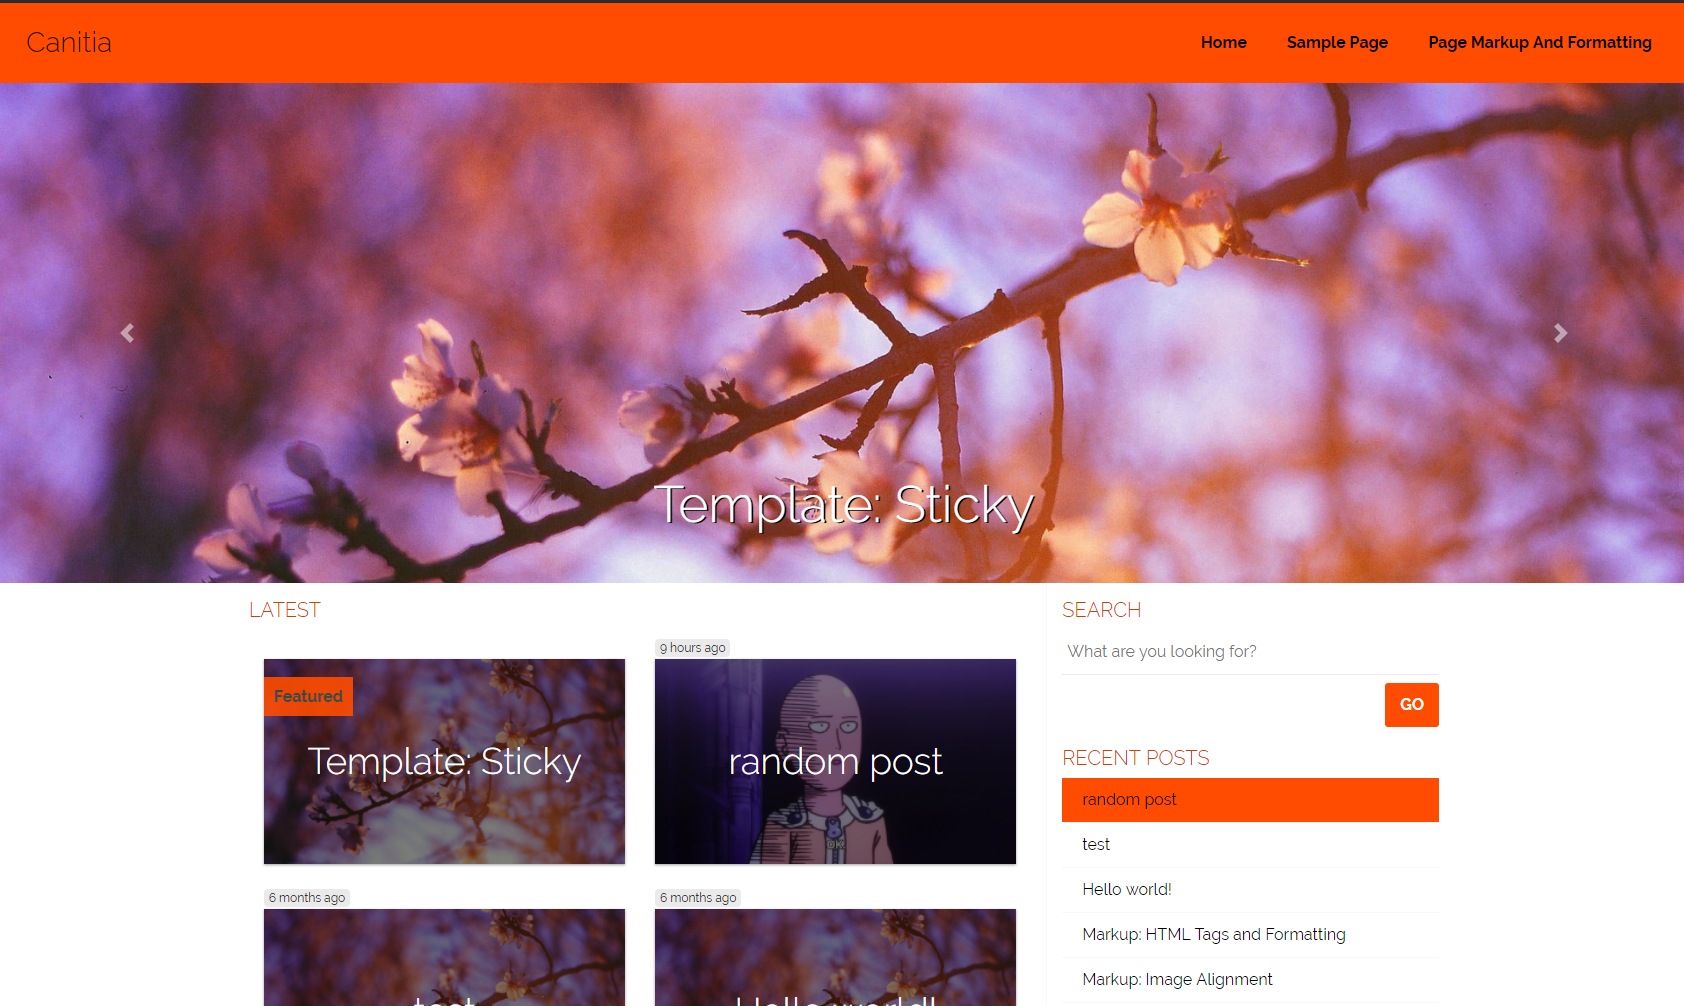
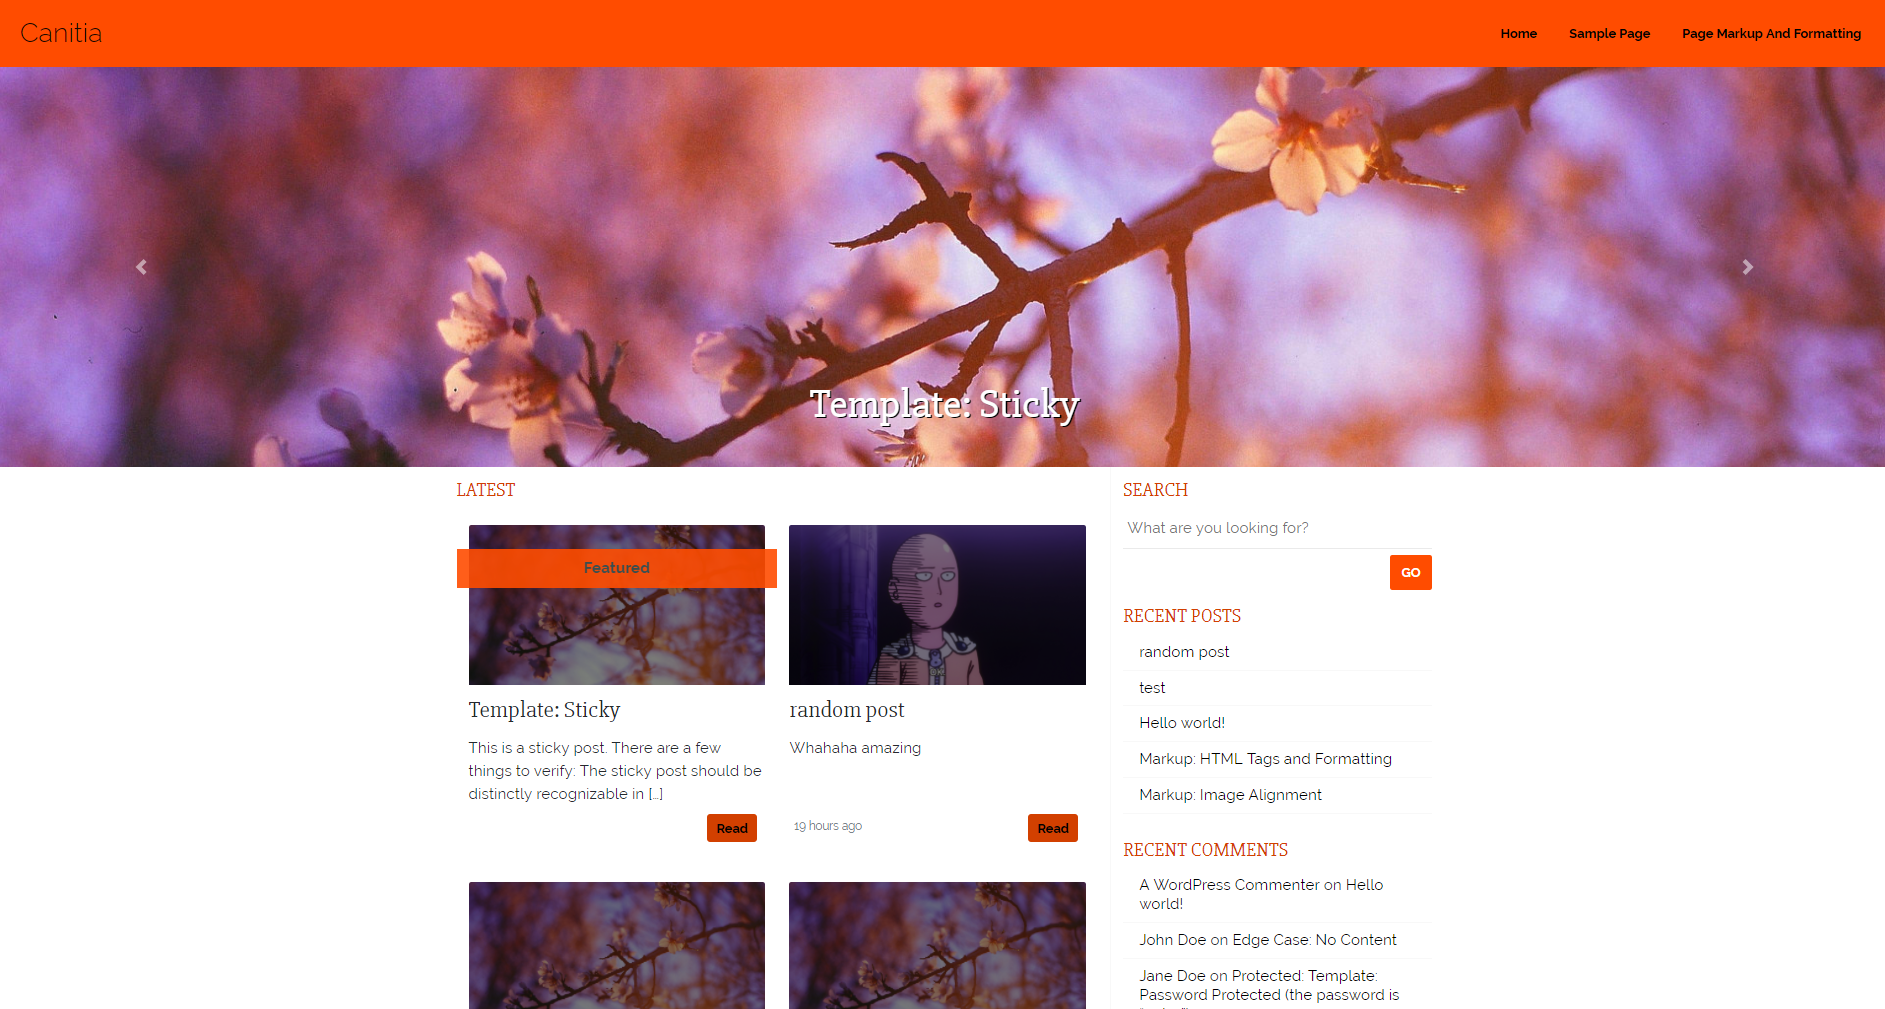
fix margin stuff

diff --git a/style.css b/style.css
@@ -19,6 +19,12 @@ Use it to make something cool, have fun, and share what you've learned with othe
 	margin-right: 0 !important;
 }
 
+.page-row {
+	max-width: 1200px;
+	margin-left: auto !important;
+	margin-right: auto !important;
+}
+
 .col {
 	flex-basis: unset !important;
 }
@@ -1190,10 +1196,6 @@ footer p {
 @media (min-width: 1200px) { 
 	.caption-image {
 		font-size: 2.3em !important;
-	}
-
-	.container-fluid {
-		max-width:1250px;
 	}
 
 	.collection-item {

diff --git a/single.php b/single.php
@@ -9,7 +9,7 @@
     }
 ?>
 
-    <div class="row h-100">
+    <div class="row h-100 page-row">
         <?php if ( get_theme_mod( 'sidebar_position', 'right' ) == 'left' ) : ?>
         <!-- second column (widget bar) -->
         <?php get_sidebar( 'primary' ); ?>
